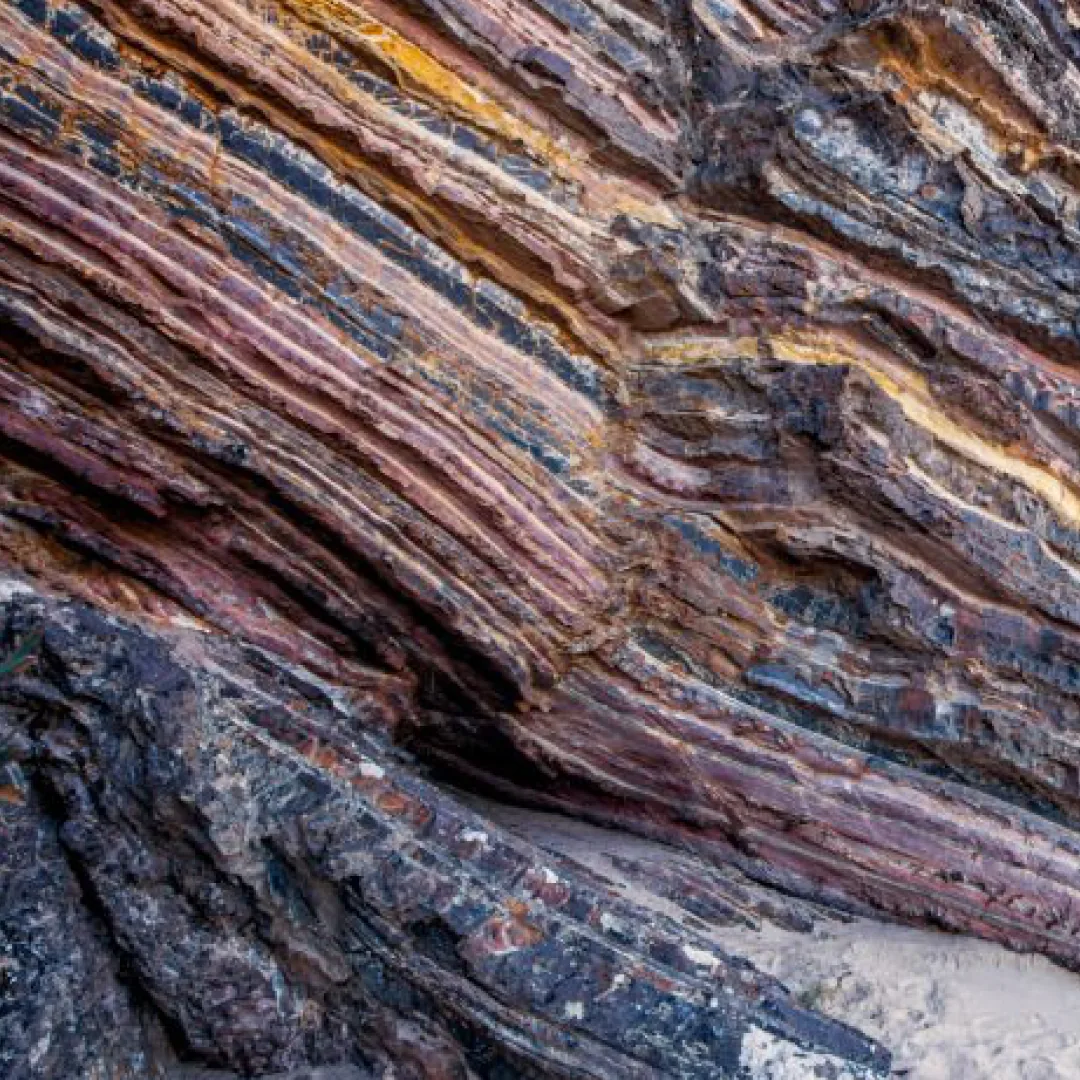
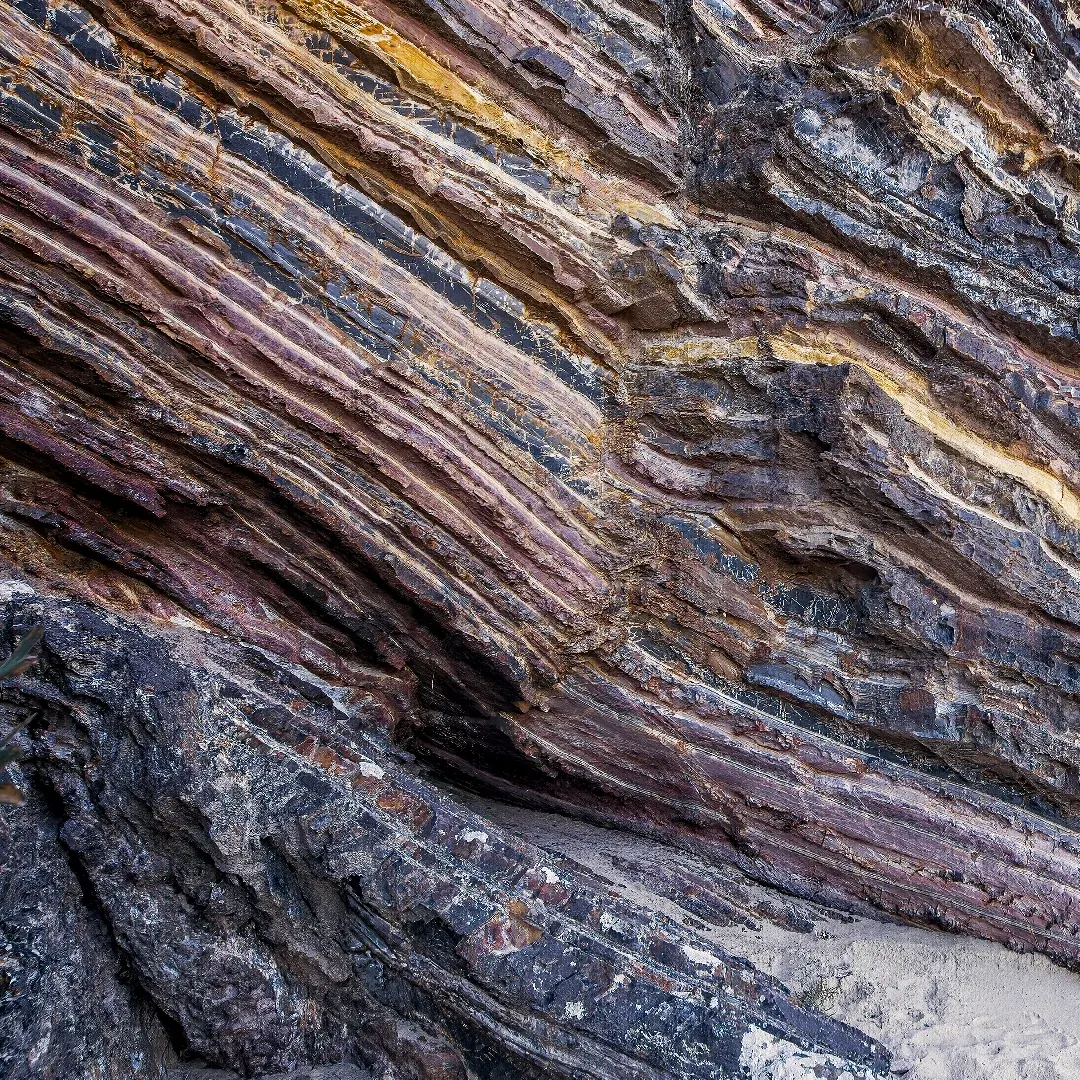
Add files via upload

diff --git a/docs/image-register-v2.md b/docs/image-register-v2.md
@@ -18,7 +18,7 @@
 | Document library · hero | 2270013766 | hero-documents.webp |
 | Contact · hero | 2152384691 | hero-contact.webp |
 
-Still placeholder or Unsplash: Governance "How it works" left-right (Unsplash bridge, left-right-governance.webp); Home and Our approach left-rights (left-right-city.webp); insight thumbnails and featured image; headshots. Unused iStock candidates in the frame: 1367460612, 2233117469, 1406515496, 2155242255, 1033677848, 1331882482, 2155242259, 2157500761. After purchase: replace each file from the master at 2000px+ using the export routine below, then remove the watermark note here.
+Still placeholder or Unsplash: Governance "How it works" left-right (Unsplash bridge, left-right-governance.webp); Home and Our approach left-rights (left-right-city.webp); insight thumbnails and featured image; headshots. Unused iStock candidates in the frame: 1367460612, 2233117469, 1406515496, 2155242255, 1033677848, 1331882482, 2155242259, 2157500761. Licensed and replaced from the iStock masters on 6 Oct 2026 (each hero is the slot's Figma crop applied to the master, 1080×1080; cards are 4:5 from the AFI and PIF masters). Masters: Jim's Drive folder "images"; keep a copy at Arculus.
 
 ## Earlier set (R2 · proposed set v2, 23 Sep 2026) — superseded, kept for the record
 
